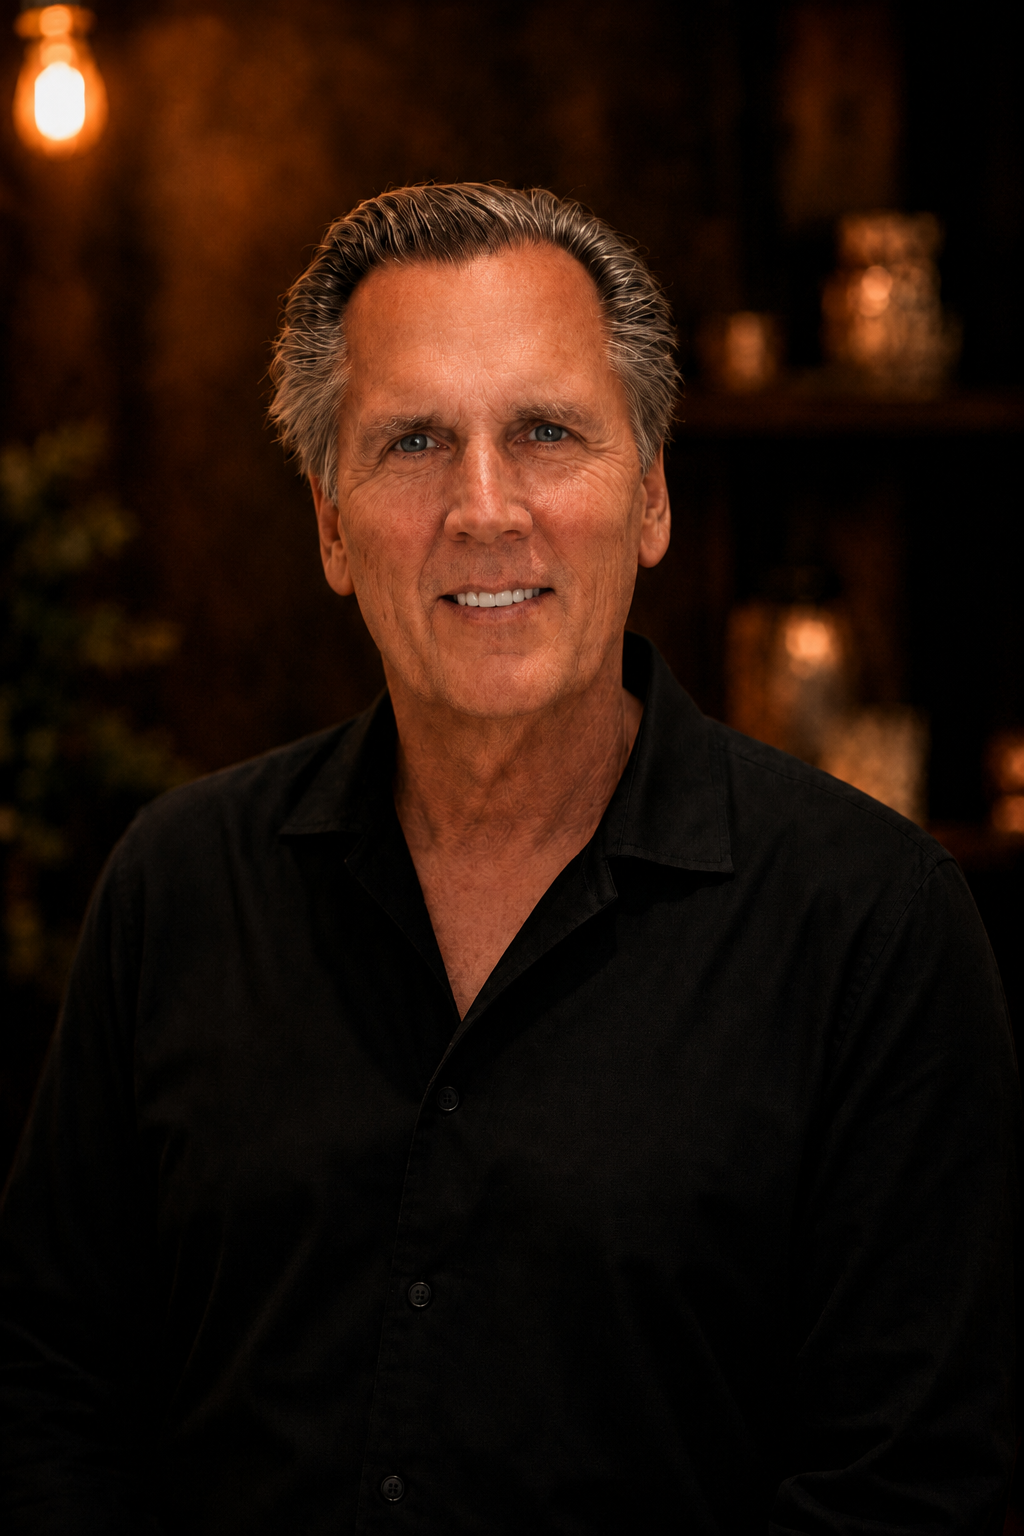
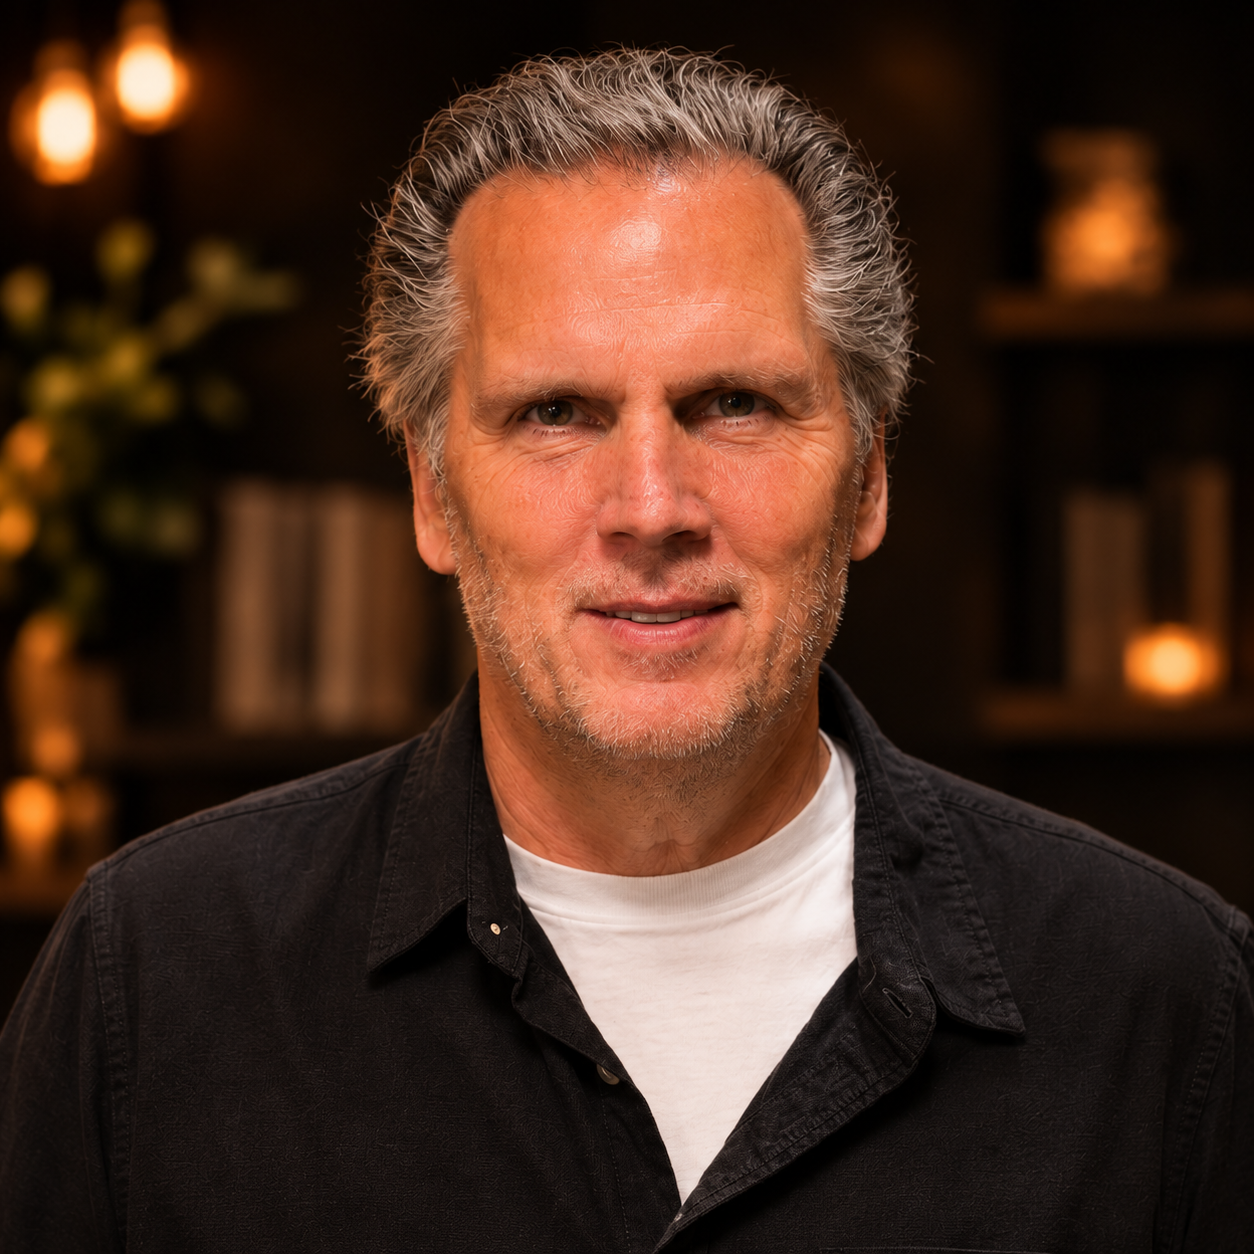
Chris's new photos, endings rule, Scandal of Union builders
Claude-Session: https://claude.ai/code/session_01HzMcYdGnCBi9GHQr6GcuSY

diff --git a/toolkit/build_union.py b/toolkit/build_union.py
@@ -1,0 +1,69 @@
+"""Nov 22 Sunday message 'The Scandal of Union': Chris carousel (C318 IG, Gathering FB) and Leah carousel (all four). Gathering palette."""
+from playwright.sync_api import sync_playwright
+src=open('/home/claude/leah/build_getup_g.py').read()
+exec(src[:src.index("F=\"\"\"@font-face")])
+F="""@font-face{font-family:Bask;src:url('file:///usr/share/fonts/truetype/baskerville/GFSBaskerville.otf');}
+@font-face{font-family:InterM;src:url('file:///usr/share/fonts/opentype/inter/Inter-Medium.otf');}html,body{margin:0;padding:0;}"""
+def cover(photo, pos, eyebrow, title, sub, name, line2, gray=True):
+    filt='filter:grayscale(1) contrast(1.05);' if gray else ''
+    return ('<!doctype html><html><head><meta charset="utf-8"><style>'+F+'</style></head><body>'
+    """<div style="width:1080px;height:1350px;position:relative;overflow:hidden;background:radial-gradient(ellipse 90% 70% at 30% 35%,#2c3d30 0%,#1f2c23 70%,#18221b 100%);color:#f2ead9">"""
+    f'<div style="position:absolute;right:0;top:0;width:540px;height:1350px;background:#111 url({photo}) {pos}/cover no-repeat;{filt}"></div>'
+    '<div style="position:absolute;left:480px;top:0;width:140px;height:1350px;background:linear-gradient(90deg,#1f2c23 15%,rgba(31,44,35,0))"></div>'
+    f'<div style="position:absolute;left:90px;top:120px;font-family:InterM;font-size:19px;letter-spacing:0.3em;color:#c49a5a">{eyebrow}</div>'
+    '<div style="position:absolute;left:90px;top:175px;width:70px;height:1px;background:#c49a5a"></div>'
+    f'<div style="position:absolute;left:90px;top:330px;width:420px;font-family:Bask;"><div style="font-size:86px;line-height:1.08">{title}</div>'
+    f'<div style="margin-top:50px;font-size:36px;line-height:1.35;font-style:italic;color:rgba(242,234,217,0.82)">{sub}</div></div>'
+    f'<div style="position:absolute;left:90px;bottom:110px;width:440px;font-family:Bask;"><div style="font-size:44px">{name}</div>'
+    f'<div style="margin-top:14px;font-family:InterM;font-size:17px;letter-spacing:0.24em;color:#c49a5a;line-height:1.7">{line2}<br><span style="color:rgba(242,234,217,0.55)">COLORADO SPRINGS</span></div></div></div></body></html>')
+def gsN(h, n, total, who):
+    return gs(h).replace(f'{n} / 12', f'{n} / {total}').replace('LEAH RAMIREZ</span></div>', f'{who}</span></div>')
+def endslide(n,total,who):
+    h=('<!doctype html><html><head><meta charset="utf-8"><style>'+CSS+'</style></head><body><div class="c">'
+     f'<div class="top"><span>Leah Ramirez</span><span>{n} / {total}</span></div><div class="rule"></div>'
+     '<div class="body" style="text-align:center"><p class="ref" style="color:#9a6a3c">Sunday’s message</p>'
+     '<p class="t1" style="margin-top:30px">The Scandal of Union</p><p class="t2" style="font-style:italic;color:#4b4a3c">When Christ Lives Through Us</p>'
+     '<p class="ref" style="margin-top:60px">Read the full article · Company 318 on Substack<br>Watch the message · search Company 318 on YouTube</p>'
+     '<p class="ref" style="margin-top:40px">The Gathering · Colorado Springs</p></div>'
+     '<div class="foot"><span>@LEAHRAMIREZ247</span><span>SWIPE</span></div></div></body></html>')
+    return gsN(h,n,total,who)
+def S(inner,n,total,who): return gsN(slide(inner,n),n,total,who)
+CH=[
+ ('cover', cover('chris_bw.png','46% 30%','THE GATHERING · SUNDAY','The Scandal<br><span style="color:#c49a5a">of Union</span>','When Christ lives<br>through us.','Chris Berglund','THE SCANDAL OF UNION')),
+ '<p class="t1">Union with Christ does not eliminate our participation.</p><p class="t1 c2">It eliminates our independence.</p>',
+ '<p class="t3">Hebrews <span class="n">11</span> is often called the Hall of Faith. Yet some of the people named there, like Samson, Gideon and Jephthah, are among the most complicated characters in the Old Testament.</p><p class="t2">Perhaps we have been reading this chapter with our attention on the wrong person.</p><p class="t2 c2">God remains faithful, even as deeply flawed people learn to trust what He has spoken.</p>',
+ '<p class="t1">Faith is not our ability to become sufficient for God’s purposes.</p><p class="t1 c2">It is our response to the One who is faithful.</p>',
+ '<p class="t3">Gideon gathered <span class="n">32,000</span> men. God reduced them to <span class="n">300</span>, so Israel would not mistake the victory for their own strength.</p><p class="t2">They surrounded the camp with trumpets, empty clay jars and torches. At the signal, <span class="c2">they broke the jars and the light was revealed.</span></p><p class="ref">Judges 7</p>',
+ '<p class="t2">“But we have this treasure in jars of clay, to show that the surpassing power belongs to God and not to us.”</p><p class="ref">2 Corinthians 4:7</p><p class="t1 c2" style="margin-top:44px">The vessel was never intended to be the source of the light.</p>',
+ '<p class="t2">We no longer pray to convince a reluctant God to become involved.</p><p class="t2 c2">We pray because we have been brought into communion with the Father through His Son.</p>',
+ '<p class="t1">What God has accomplished in Jesus comes first.</p><p class="t2 c2">Our participation is a response to His grace, not an attempt to produce it.</p>',
+]
+LE=[
+ ('cover', cover('leah_bw.png','50% 30%','THE GATHERING · SUNDAY','But we can <span style="color:#c49a5a">agree with Him.</span>','We cannot change another person’s heart.','Leah Ramirez','THE SCANDAL OF UNION',gray=False)),
+ '<p class="t2">Today many of us will sit around a table with people we love, and some of them are people we have been praying for for years.</p><p class="t3">I know how little power I have to change another person’s heart. I can’t manufacture a response to the Gospel. I can’t produce the life of Christ in someone through more determination.</p><p class="t1 c2">But I can agree with Him.</p>',
+ '<p class="t3">On Sunday I found myself thinking about the difference between faithfully maintaining something and actually participating in the faith of Christ concerning it. Both matter.</p><p class="t2">We can keep praying for our families and keep showing up. <span class="c2">And He keeps inviting us to expect Him to do what He has placed on our hearts.</span></p>',
+ '<p class="t2">The things God deposits in us tend to bring us face to face with our weakness. And the temptation is to shrink back into something we know we can manage.</p><p class="t3">Paul learned to boast in his weaknesses, because that is where the power of Christ rested on him. <span class="c2">For Paul, weakness became the place where he discovered the sufficiency of Christ.</span></p><p class="ref">2 Corinthians 12:9</p>',
+ '<p class="t2">So today I’m coming to the table with no pressure to make anything happen, only the confidence that <span class="c2">Christ lives in me and wants to make Himself known.</span></p>',
+ '<p class="t1">Our faith does not create His faithfulness.</p><p class="t1 c2">It lays hold of the Faithful One.</p>',
+]
+def build(prefix, items, who):
+    total=len(items)+1
+    pages=[]
+    for i,it in enumerate(items,1):
+        pages.append(it[1] if isinstance(it,tuple) else S(it,i,total,who))
+    pages.append(endslide(total,total,who))
+    with sync_playwright() as p:
+        b=p.chromium.launch(args=['--allow-file-access-from-files']); pg=b.new_page(viewport={'width':1080,'height':1350})
+        for i,h in enumerate(pages,1):
+            open(f'{D}/{prefix}_{i}.html','w').write(h); pg.goto(f'file://{D}/{prefix}_{i}.html'); pg.wait_for_timeout(450)
+            pg.screenshot(path=f'{D}/{prefix}_{i}.png')
+        b.close()
+    from PIL import Image
+    ims=[Image.open(f'{D}/{prefix}_{i}.png').resize((300,375)) for i in range(1,total+1)]
+    cols=5; rows=(total+cols-1)//cols
+    sh=Image.new('RGB',(cols*310-10,rows*385-10),'white')
+    for i,im in enumerate(ims): sh.paste(im,((i%cols)*310,(i//cols)*385))
+    sh.save(f'{D}/{prefix}_sheet.png')
+build('union_chris', CH, 'CHRIS BERGLUND')
+build('union_leah', LE, 'LEAH RAMIREZ')
+print('ok')

diff --git a/toolkit/build_canwe.py b/toolkit/build_canwe.py
@@ -1,0 +1,29 @@
+from playwright.sync_api import sync_playwright
+H="""<!doctype html><html><head><meta charset="utf-8"><style>
+@font-face{font-family:Bask;src:url('file:///usr/share/fonts/truetype/baskerville/GFSBaskerville.otf');}
+@font-face{font-family:InterM;src:url('file:///usr/share/fonts/opentype/inter/Inter-Medium.otf');}
+html,body{margin:0}
+.c{width:1080px;height:1350px;position:relative;background:#f2ead9;color:#1f2c23;font-family:Bask}
+.b{position:absolute;left:120px;right:110px;top:50%;transform:translateY(-50%)}
+p{margin:0;font-size:39px;line-height:1.42}
+.h{font-family:InterM;font-size:20px;letter-spacing:0.3em;color:#a5583a;margin:0 0 18px}
+.big{font-size:60px;line-height:1.2;margin:46px 0 46px}
+.q{margin-top:50px;font-size:37px;font-style:italic;color:#33433a}
+.f{position:absolute;left:0;right:0;bottom:90px;text-align:center;font-family:InterM;font-size:20px;letter-spacing:0.36em;color:#1f2c23}
+</style></head><body><div class="c"><div class="b">
+<p class="h">WE CANNOT</p>
+<p>change another person’s heart.</p>
+<p>manufacture a response to the Gospel.</p>
+<p>produce the life of Christ through greater determination.</p>
+<p class="big">But we can <span style="color:#a5583a">agree with Him.</span></p>
+<p class="h">WE CAN</p>
+<p>hear His Word and trust His faithfulness.</p>
+<p>speak the Gospel again, even when we have spoken it many times before.</p>
+<p>pray for the sick, love the wounded, and enter the conversations we would usually avoid.</p>
+<p class="q" style="font-style:normal;color:#1f2c23">Our faith does not create His faithfulness.<br><span style="color:#a5583a">It lays hold of the Faithful One.</span></p>
+</div><div class="f">LEAH RAMIREZ</div></div></body></html>"""
+with sync_playwright() as p:
+    b=p.chromium.launch(args=['--allow-file-access-from-files']); pg=b.new_page(viewport={'width':1080,'height':1350})
+    open('/home/claude/leah/canwe.html','w').write(H); pg.goto('file:///home/claude/leah/canwe.html'); pg.wait_for_timeout(400)
+    pg.screenshot(path='/home/claude/leah/canwe.png'); b.close()
+print('ok')

diff --git a/toolkit/HANDOFF.md b/toolkit/HANDOFF.md
@@ -59,6 +59,8 @@ cannot fetch raw.githubusercontent.com itself, which is normal; Metricool can.
 
 ## Photos
 
+- Nov 23, 2026: Chris has NEW photos (toolkit/photos/chris.png color portrait, chris_bw.png black and white, chris_standing.png, chris_landscape.png). Use only these; chris_2026-10_old.png is retired. Gathering covers use the black-and-white portrait.
+
 - Nov 14, 2026: Leah has a NEW official photo (toolkit/photos/leah.png, seated; leah_closeup.png square). Use it on everything going forward. Its background was edited with AI, but Leah decided (Nov 16) not to use the AI label for her photo: leave isAiGenerated false. (Chris's photo posts still carry the label.) The old one is leah_2026-10_old.png; do not use it.
 
 - toolkit/photos has portraits of Leah and Chris (Oct/Nov 2026). Chris approved use. Chris's photo has an AI-edited background: set instagramData.isAiGenerated true on any Instagram post that uses it.
@@ -75,6 +77,11 @@ cannot fetch raw.githubusercontent.com itself, which is normal; Metricool can.
 - Leah's text-only Facebook posts perform well. Pattern: her text verbatim on FB with one graphic, link in first comment; Instagram gets a text carousel (cover + her full text across slides).
 
 - Stories (Nov 16): Leah wants a Story (1080x1920, build_stories.py) on every account with Stories (Leah IG/FB, Company 318 IG, Gathering FB) at the same time as each main post. Stories carry no text and no link; remind Leah to also use "Add to story" on the live post.
+
+## Endings (Nov 23, 2026)
+
+- Leah wants posts to leave people believing, never condemned for what they have not done. End on who He is and what He has done (for example "Our faith does not create His faithfulness. It lays hold of the Faithful One."). Avoid reflective prompts that imply the reader has failed ("what have you stopped expecting...").
+- Content split: Leah's personal FB/IG use only Leah's own portion of a shared message; Chris's portion can go on Company 318 and The Gathering, not on Leah's pages.
 
 ## Content library: available, used and on hold
 
